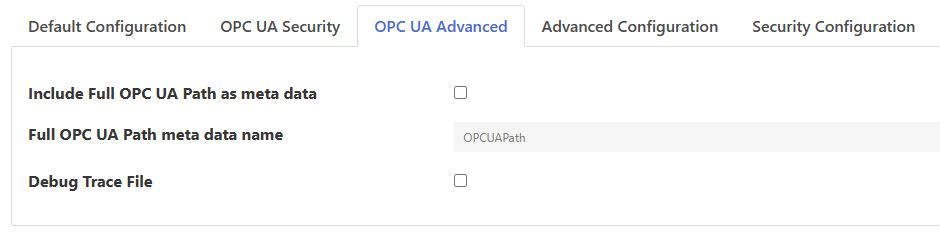
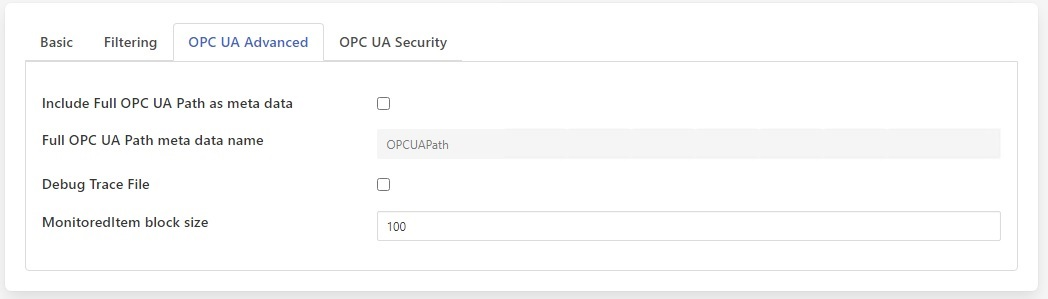
FOGL-8257 : Added exception handling, retry mechanism and updated miBlockSize variable (#55)
* FOGL-8257 : Added exception handling, retry mechanism and updated miBlockSize

diff --git a/opcua.cpp b/opcua.cpp
@@ -401,6 +401,7 @@ void OPCUA::clearConfig()
 	m_includePathAsMetadata = false;
 	m_assetNaming = ASSET_NAME_SINGLE;
 	m_reportingInterval = 100;
+	m_miBlockSize = 100;
 	m_secMode = OpcUa_MessageSecurityMode_Invalid;
 	if (m_traceFile)
 	{
@@ -512,6 +513,15 @@ void OPCUA::parseConfig(ConfigCategory &config)
 	else
 	{
 		setReportingInterval(100);
+	}
+
+	if (config.itemExists("miBlockSize"))
+	{
+		m_miBlockSize = strtol(config.getValue("miBlockSize").c_str(), NULL, 10);
+	}
+	else
+	{
+		m_miBlockSize = 100;
 	}
 
 	if (config.itemExists("subscription"))
@@ -996,7 +1006,7 @@ int OPCUA::subscribe()
 
 	int totalMonitoredItems = m_nodes.size();
 	int actualMonitoredItems = 0;
-	int miBlockSize = 1000;
+	int miBlockSize = m_miBlockSize;
 	int callCount = 0;
 	res = 0;
 	i = 0;
@@ -1697,7 +1707,16 @@ OPCUA::Node::Node(uint32_t conn, const string &nodeId) : m_nodeID(nodeId)
 	readValue[2].indexRange = NULL;
 
 	int res;
-	if ((res = SOPC_ClientHelper_Read(conn, readValue, 3, values)) == 0)
+	int retry_count=5;
+	while(retry_count > 0)
+	{
+		res = SOPC_ClientHelper_Read(conn, readValue, 3, values);
+		if (res == 0)
+			break;
+		retry_count--;
+		Logger::getLogger()->debug("Failed to read Node \"%s\", %d: Retry count, %d", nodeId.c_str(), res, retry_count);
+	}
+	if ( res == 0)
 	{
 		SOPC_Variant variant = values[0].Value;
 		if (variant.Value.Qname)
@@ -1770,9 +1789,16 @@ void OPCUA::browse(const string &nodeid, vector<string> &variables)
 	}
 	else
 	{
-		parentNode = new Node(m_connectionId, nodeid);
-		m_nodeObjects.insert(parentNode);
-		Logger::getLogger()->debug("Parent insert %s; %d items", parentNode->getNodeId().c_str(), m_nodeObjects.size());
+		try
+		{
+			parentNode = new Node(m_connectionId, nodeid);
+			m_nodeObjects.insert(parentNode);
+			Logger::getLogger()->debug("Parent insert %s; %d items", parentNode->getNodeId().c_str(), m_nodeObjects.size());
+		}
+		catch (std::exception &e)
+		{
+			Logger::getLogger()->warn("Failed to read node  %s",nodeid.c_str());
+		}
 	}
 
 	for (int32_t i = 0; i < browseResult.nbOfReferences; i++)

diff --git a/plugin.cpp b/plugin.cpp
@@ -189,12 +189,21 @@ static const char *default_config = QUOTE({
 	    "group" : "OPC UA Advanced",
             "order" : "19"
             },
+    "miBlockSize" : {
+            "description" : "The number of MonitoredItems to be registered with the OPC/UA server in single call to the S2OPCUA OPCUA Toolkit" ,
+            "type" : "integer",
+            "default" : "100",
+	    "minimum" : "1",
+            "displayName" : "MonitoredItem block size",
+            "group" : "OPC UA Advanced",
+            "order" : "20"
+            },
 	"filterRegex" : {
 		"description" : "Regular expression for filtering nodes that are to be processed",
 		"type" : "string",
 		"default" : "",
 		"displayName" : "Regular expression",
-		"order" : "20",
+		"order" : "21",
 		"group" : "Filtering"
 		},
 	"filterScope" : {
@@ -203,7 +212,7 @@ static const char *default_config = QUOTE({
 		"options":["Object", "Variable", "Object and Variable"],
 		"default" : "Variable",
 		"displayName" : "Scope",
-		"order" : "21",
+		"order" : "22",
 		"group" : "Filtering"
 		},
 	"filterAction" : {
@@ -212,7 +221,7 @@ static const char *default_config = QUOTE({
 		"options":["Include", "Exclude"],
 		"default" : "Exclude",
 		"displayName" : "Filter action",
-		"order" : "22",
+		"order" : "23",
 		"group" : "Filtering"
 		}
     });

diff --git a/include/opcua.h b/include/opcua.h
@@ -146,6 +146,7 @@ class OPCUA
         int64_t             	m_publishPeriod;
         uint16_t             	m_tokenTarget;
         int                 	m_nodeIdsSize;
+        int                 	m_miBlockSize;
 		
         bool                 	m_disableCertVerif;
         char                 	*m_traceFile;

diff --git a/docs/index.rst b/docs/index.rst
@@ -112,6 +112,7 @@ The OPC UA Advanced tab allows advanced configuration parameters to be set.
     The path does not include the *Objects* folder or the subscribed Node.
   - **Full OPC UA Path meta data name**: The data point name to use when adding the full OPC UA path to every reading. Default is *OPCUAPath*.
   - **Debug Trace File**: Enable the S2OPCUA OPCUA Toolkit trace file for debugging. If enabled, log files will appear in the directory */usr/local/fledge/data/logs*.
+  - **MonitoredItem block size**: "The number of items passed in single call to the S2OPCUA OPCUA Toolkit when requesting to monitor data change events in the OPC/UA server. The default value will work in most of the cases. If the error **Failed to add Monitored Items** is written to the logs then try reducing the number of items sent in each call until this error stops occurring. Reducing the number too far will impact the performance, increasing the time it takes to setup the connection with the server and get the first data back from the server. Using very large values for this call will put extra stress on the OPC/UA server and also increase the memory footprint of the plugin. The minimum value of this is 1, the default is 100.
 
 The OPC UA Security tab contains a set of configuration items that is used for setting the security between the plugin and the OPC UA Server.
 
